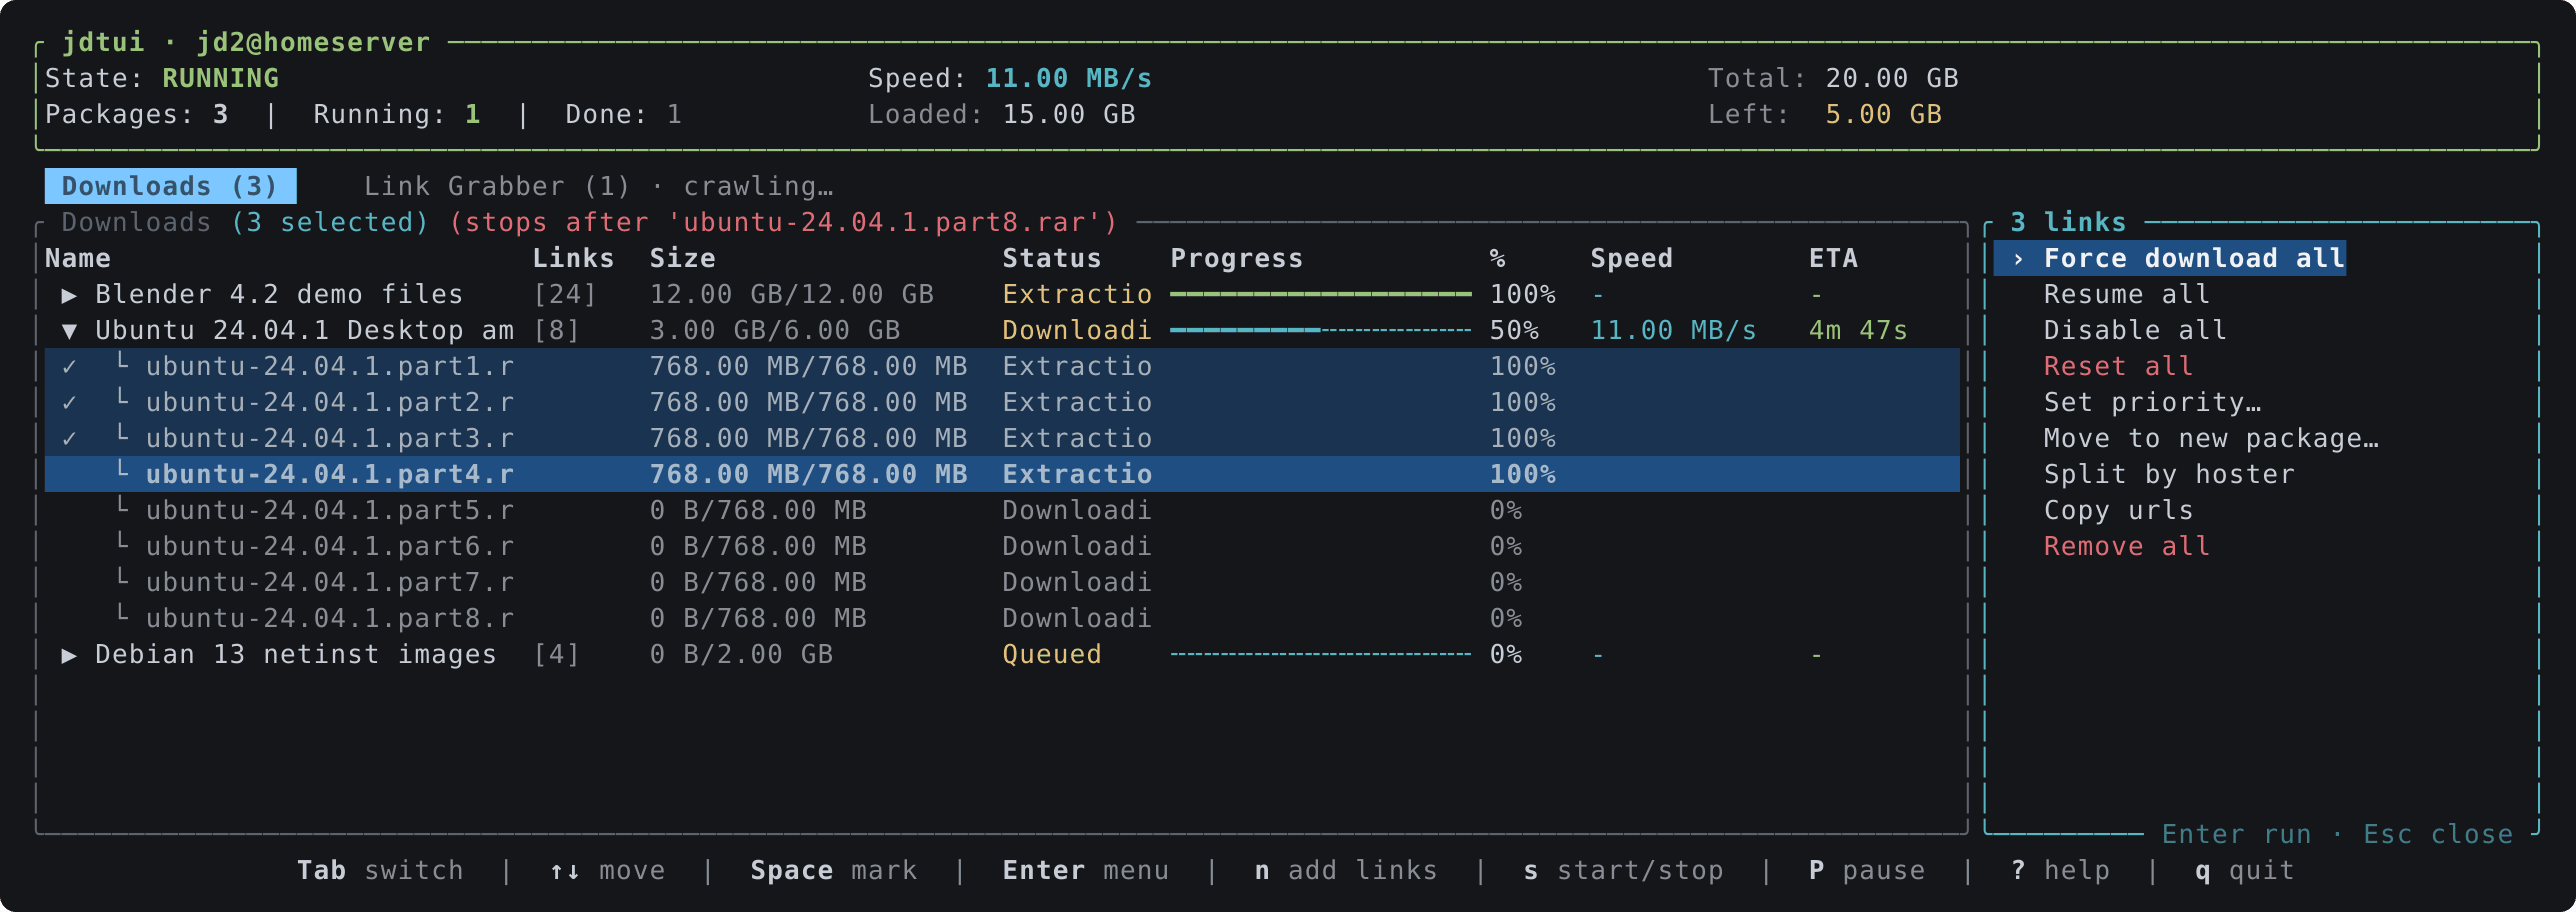
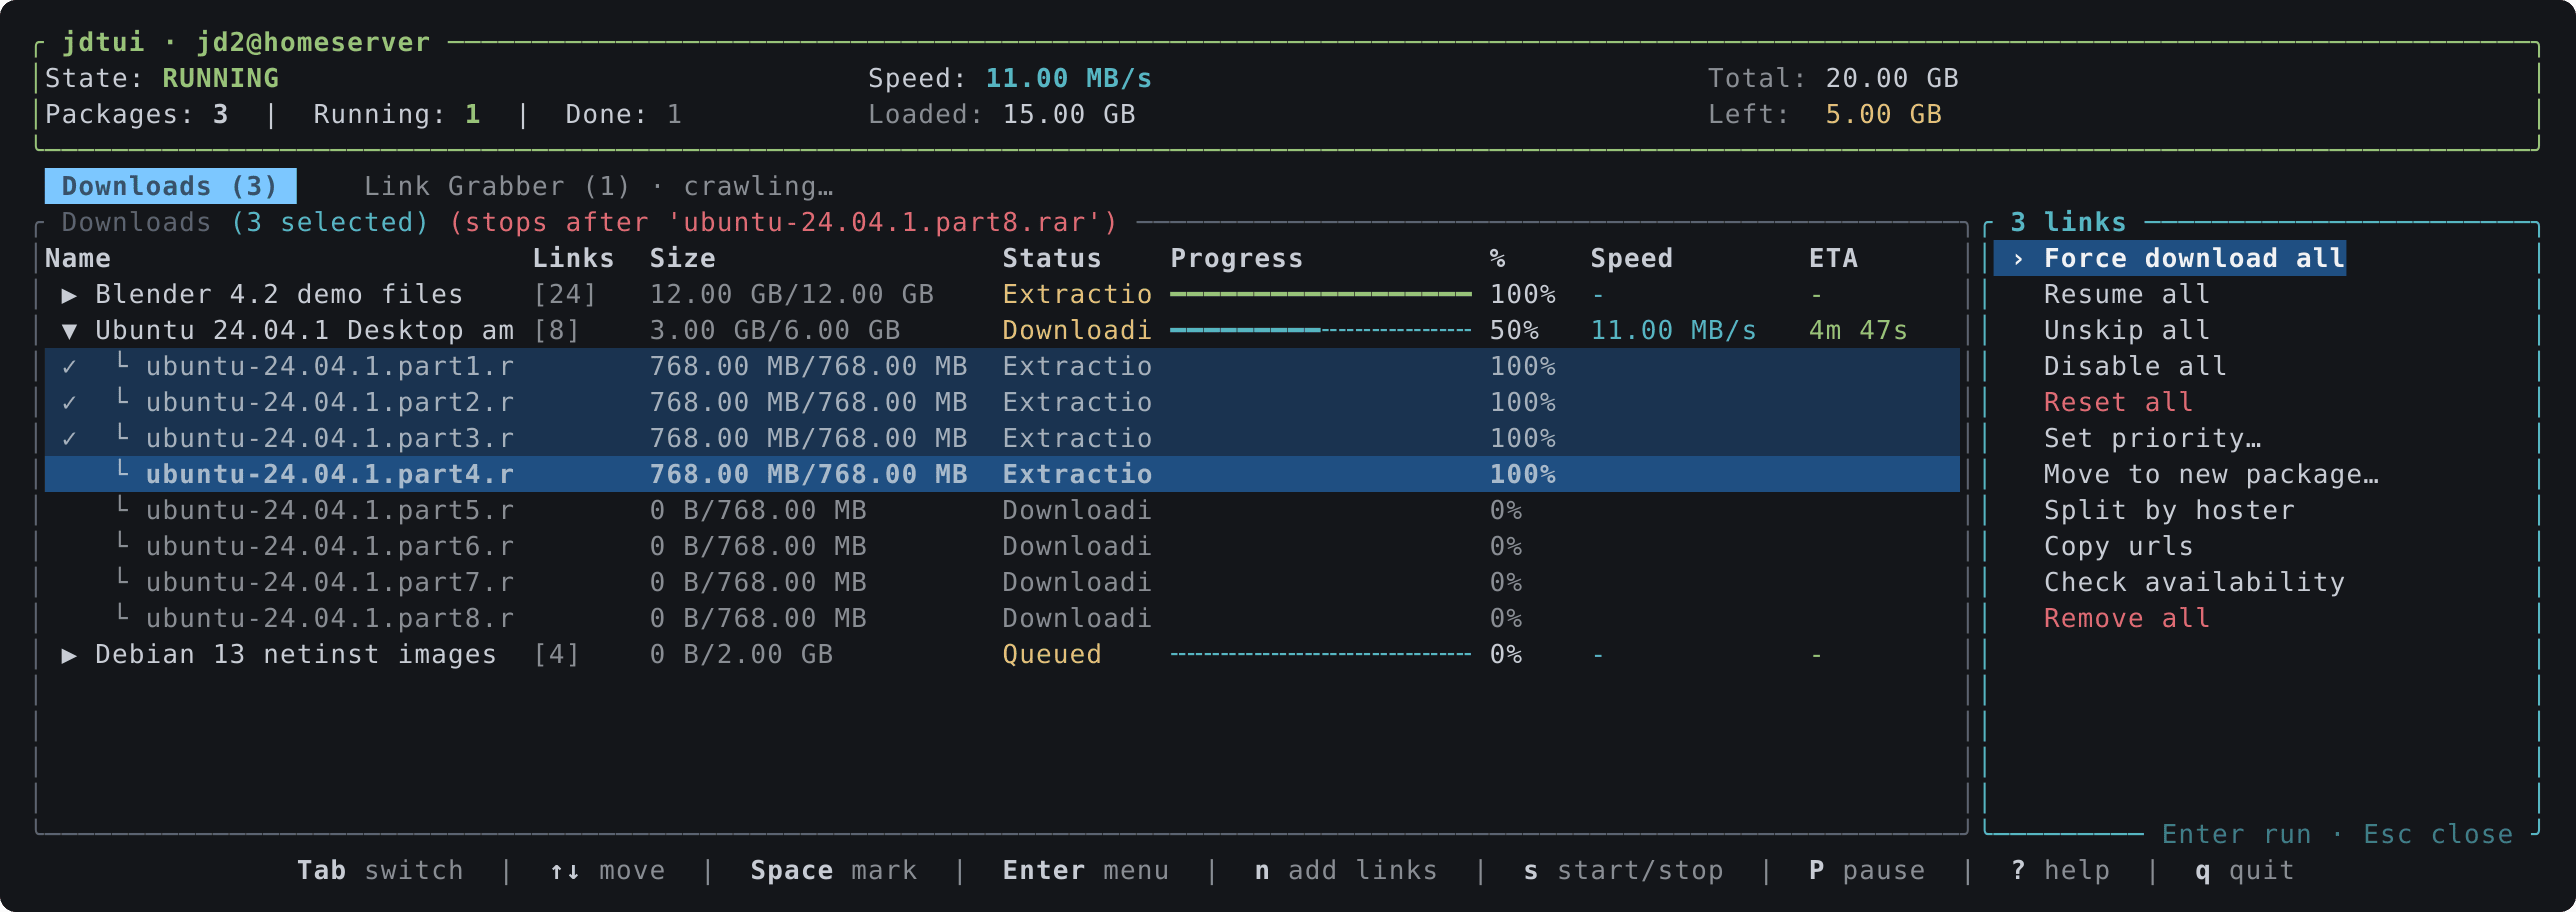
Unskip links and re-check availability from the context menu
Claude-Session: https://claude.ai/code/session_01NSUbKnhG1qboZoRWXZUaah

Changed region(s): [[0.7764, 0.3377, 0.9317, 0.7061]]

diff --git a/src/model.rs b/src/model.rs
@@ -177,6 +177,10 @@ pub enum Action {
     SplitByHoster,
     /// Show the urls of the selection and copy them to the clipboard.
     Urls,
+    /// Clear the skip reason of skipped links; downloads only.
+    Unskip,
+    /// Re-check whether the links are still online.
+    CheckOnline,
     Properties,
 }
 
@@ -209,6 +213,7 @@ pub fn context_menu(tab: Tab, packages: &[Package], rows: &[Row], stop_mark: Opt
         let mut v = vec![
             entry(format!("Force download{suffix}"), Action::Force, false),
             entry(format!("Resume{suffix}"), Action::Resume, false),
+            entry(format!("Unskip{suffix}"), Action::Unskip, false),
             toggle,
             entry(format!("Reset{suffix}"), Action::Reset, true),
         ];
@@ -233,6 +238,7 @@ pub fn context_menu(tab: Tab, packages: &[Package], rows: &[Row], stop_mark: Opt
     insert(entry("Move to new package…", Action::NewPackage, false));
     insert(entry("Split by hoster", Action::SplitByHoster, false));
     insert(entry("Copy urls", Action::Urls, false));
+    insert(entry("Check availability", Action::CheckOnline, false));
     if single && !tab.is_grabber() {
         let marked = row_stop_marked(packages, &rows[0], stop_mark);
         insert(entry(if marked { "Remove stop mark" } else { "Stop after this" }, Action::ToggleStopMark, false));

diff --git a/src/app.rs b/src/app.rs
@@ -451,6 +451,10 @@ impl App {
             Action::SplitByHoster => {
                 self.with_api(|a| a.split_by_hoster(&links, &pkgs, grabber)).map(|_| format!("{what} split by hoster"))
             }
+            Action::Unskip => self.with_api(|a| a.unskip(&links, &pkgs)).map(|_| format!("{what} unskipped")),
+            Action::CheckOnline => self
+                .with_api(|a| a.check_online_status(&links, &pkgs, grabber))
+                .map(|_| format!("Availability check started on {what}")),
             Action::Resume => self.with_api(|a| a.resume(&links, &pkgs)).map(|_| format!("{what} resumed")),
             Action::Reset => self.with_api(|a| a.reset(&links, &pkgs)).map(|_| format!("{what} reset")),
             Action::Remove => self.with_api(|a| a.remove(&links, &pkgs, grabber)).map(|_| format!("{what} removed")),
